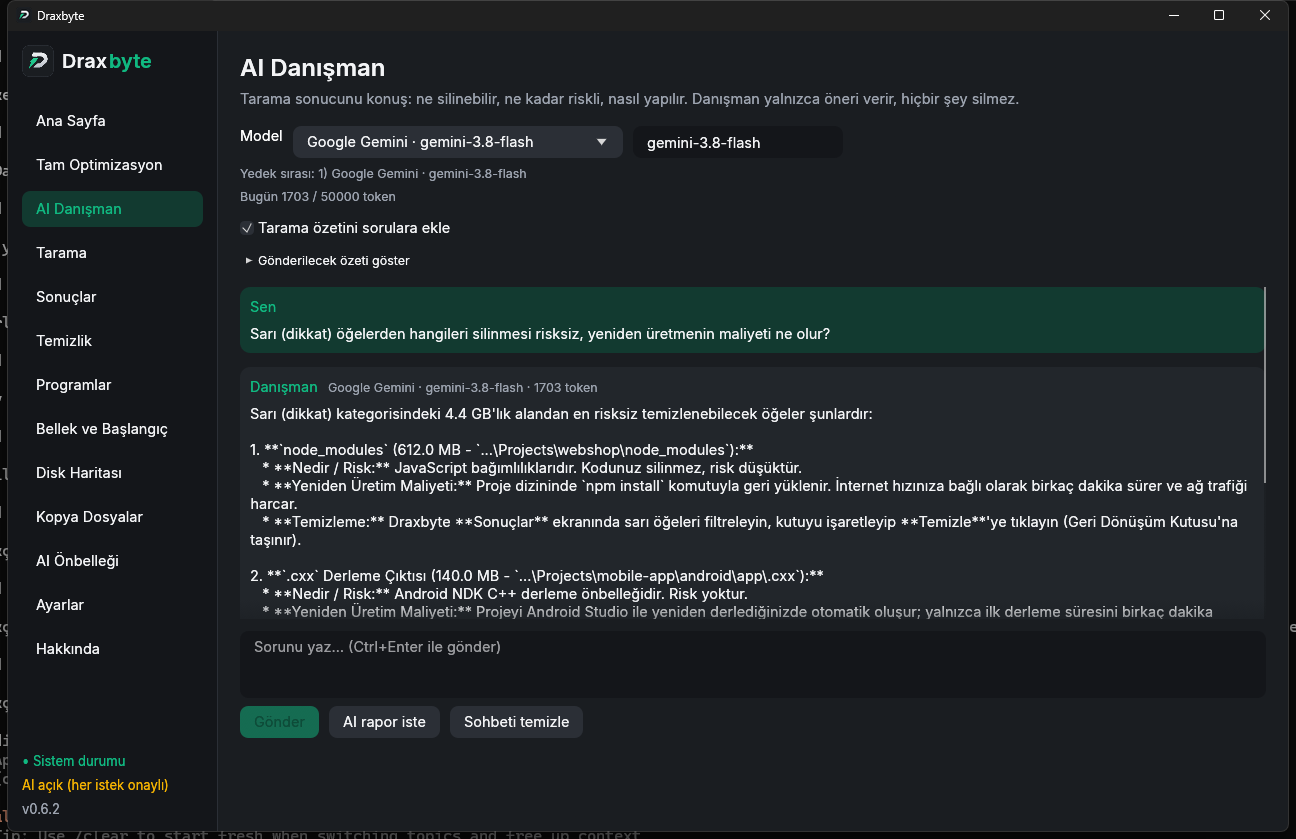
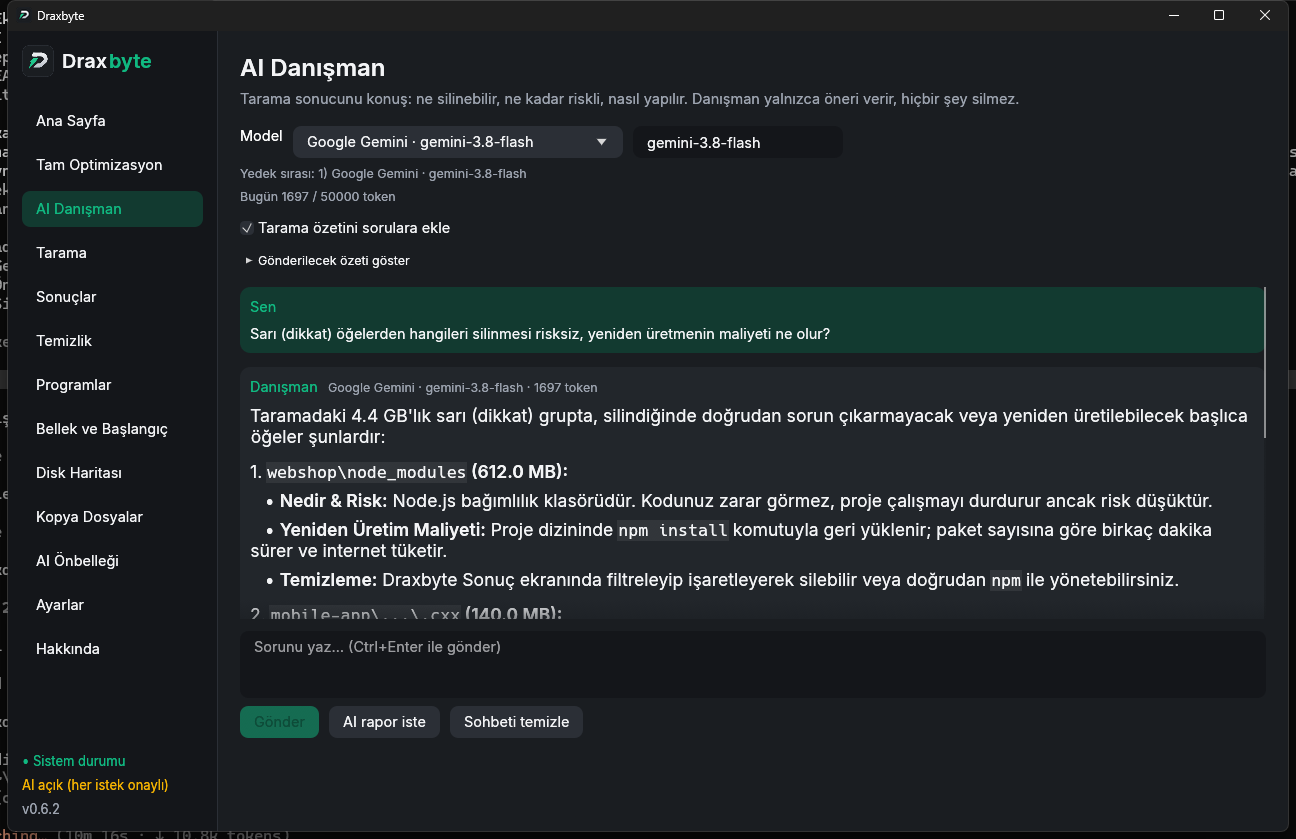
0.6.3: Gemini 3 timeout, Markdown in advisor answers, single-provider environment variable; refreshed advisor screenshots

diff --git a/src/ui/advisor_view.rs b/src/ui/advisor_view.rs
@@ -3,12 +3,121 @@
 //! nothing is sent until the user agrees and presses send.
 
 use super::widgets::{card, heading, primary_button};
-use super::{ACCENT, ACCENT_DIM, DANGER, MUTED, WARN};
+use super::{bold, ACCENT, ACCENT_DIM, DANGER, MUTED, WARN};
 use crate::app::{App, View};
 use draxbyte::ai::advisor::Role;
 use draxbyte::i18n::t;
 use draxbyte::tf;
 use egui::RichText;
+
+/// One styled piece of a line.
+#[derive(Debug, Clone, PartialEq, Eq)]
+struct Run {
+    text: String,
+    bold: bool,
+    italic: bool,
+    code: bool,
+}
+
+#[derive(Debug, Default, PartialEq, Eq)]
+struct MdLine {
+    heading: bool,
+    /// Indent and bullet that start the line.
+    prefix: String,
+    runs: Vec<Run>,
+}
+
+/// One line of an answer: `**bold**`, `*italic*`, `` `code` ``, `#` headings, `-`/`*` bullets.
+/// Models answer in Markdown; shown raw it is full of asterisks. Only the text is styled, nothing is fetched or run.
+fn md_parse(line: &str) -> MdLine {
+    let indent = line.len() - line.trim_start().len();
+    let mut rest = line.trim_start();
+    let mut out = MdLine::default();
+    if rest.starts_with('#') {
+        let t = rest.trim_start_matches('#');
+        if t.starts_with(' ') {
+            out.heading = true;
+            rest = t.trim_start();
+        }
+    } else if let Some(r) = rest.strip_prefix("* ").or_else(|| rest.strip_prefix("- ")).or_else(|| rest.strip_prefix("• ")) {
+        out.prefix = format!("{}• ", " ".repeat(indent.min(8)));
+        rest = r;
+    } else if indent > 0 {
+        out.prefix = " ".repeat(indent.min(8));
+    }
+    let (mut b, mut i, mut c) = (false, false, false);
+    let mut cur = String::new();
+    let flush = |runs: &mut Vec<Run>, cur: &mut String, b: bool, i: bool, c: bool| {
+        if !cur.is_empty() {
+            runs.push(Run { text: std::mem::take(cur), bold: b, italic: i, code: c });
+        }
+    };
+    let chars: Vec<char> = rest.chars().collect();
+    let mut k = 0;
+    while k < chars.len() {
+        let ch = chars[k];
+        let next = chars.get(k + 1).copied();
+        if ch == '`' {
+            flush(&mut out.runs, &mut cur, b, i, c);
+            c = !c;
+        } else if c {
+            cur.push(ch);
+        } else if ch == '*' && next == Some('*') {
+            flush(&mut out.runs, &mut cur, b, i, c);
+            b = !b;
+            k += 1;
+        } else if ch == '*' && (i || next.is_some_and(|n| !n.is_whitespace())) {
+            flush(&mut out.runs, &mut cur, b, i, c);
+            i = !i;
+        } else {
+            cur.push(ch);
+        }
+        k += 1;
+    }
+    flush(&mut out.runs, &mut cur, b, i, c);
+    out
+}
+
+fn markdown_job(line: &str, width: f32, ui: &egui::Ui) -> egui::text::LayoutJob {
+    use egui::{text::LayoutJob, Color32, FontId, TextFormat, TextStyle};
+    let size = ui.text_style_height(&TextStyle::Body);
+    let color = ui.visuals().text_color();
+    let md = md_parse(line);
+    let head = if md.heading { size + 2.0 } else { size };
+    let mut job = LayoutJob::default();
+    job.wrap.max_width = width;
+    if !md.prefix.is_empty() {
+        job.append(&md.prefix, 0.0, TextFormat { font_id: FontId::proportional(size), color, ..Default::default() });
+    }
+    for r in &md.runs {
+        let font = if r.code {
+            FontId::monospace(size - 1.0)
+        } else if r.bold || md.heading {
+            bold(head)
+        } else {
+            FontId::proportional(size)
+        };
+        let mut f = TextFormat { font_id: font, color, italics: r.italic && !r.code, ..Default::default() };
+        if r.code {
+            f.background = Color32::from_white_alpha(18);
+        }
+        job.append(&r.text, 0.0, f);
+    }
+    job
+}
+
+/// An answer, line by line (see `markdown_job`).
+fn markdown(ui: &mut egui::Ui, text: &str) {
+    let width = ui.available_width();
+    for line in text.lines() {
+        if line.trim().is_empty() {
+            ui.add_space(6.0);
+        } else {
+            let job = markdown_job(line, width, ui);
+            ui.add(egui::Label::new(job).selectable(true));
+        }
+    }
+}
 
 fn bubble(ui: &mut egui::Ui, fill: egui::Color32, add: impl FnOnce(&mut egui::Ui)) {
     egui::Frame::new().fill(fill).corner_radius(10).inner_margin(egui::Margin::same(10)).show(ui, |ui| {
@@ -189,7 +298,11 @@ pub fn advisor(app: &mut App, ui: &mut egui::Ui) {
                         ui.label(RichText::new(&m.meta).color(MUTED).small());
                     }
                 });
-                ui.add(egui::Label::new(m.text.as_str()).selectable(true));
+                if m.role == Role::Assistant && !m.error {
+                    markdown(ui, &m.text);
+                } else {
+                    ui.add(egui::Label::new(m.text.as_str()).selectable(true));
+                }
                 if m.role == Role::Assistant && !m.error && ui.small_button(t("Kopyala", "Copy")).clicked() {
                     ui.ctx().copy_text(m.text.clone());
                 }
@@ -226,4 +339,43 @@ pub fn advisor(app: &mut App, ui: &mut egui::Ui) {
             app.adv.msgs.clear();
         }
     });
+}
+
+#[cfg(test)]
+mod tests {
+    use super::*;
+
+    fn plain(l: &MdLine) -> String {
+        l.runs.iter().map(|r| r.text.as_str()).collect()
+    }
+
+    #[test]
+    fn bold_italic_and_code_lose_their_markers() {
+        let l = md_parse("1. **`node_modules` (612 MB):** costs *a few minutes* and `npm install`");
+        assert_eq!(plain(&l), "1. node_modules (612 MB): costs a few minutes and npm install");
+        assert!(l.runs.iter().any(|r| r.bold && r.code && r.text == "node_modules"), "{:?}", l.runs);
+        assert!(l.runs.iter().any(|r| r.italic && r.text == "a few minutes"));
+        assert!(l.runs.iter().any(|r| r.code && !r.bold && r.text == "npm install"));
+    }
+
+    #[test]
+    fn bullets_headings_and_indent() {
+        let b = md_parse("   * **Risk:** low");
+        assert_eq!(b.prefix, "   • ");
+        assert_eq!(plain(&b), "Risk: low");
+        let h = md_parse("## Plan");
+        assert!(h.heading && plain(&h) == "Plan");
+        assert_eq!(md_parse("not # a heading").heading, false);
+    }
+
+    #[test]
+    fn stray_or_literal_asterisks_do_not_swallow_text() {
+        // a multiplication sign and an unmatched marker stay readable; the formatting never leaks into the next line
+        assert_eq!(plain(&md_parse("3 * 4 = 12")), "3 * 4 = 12");
+        let l = md_parse("**never closed");
+        assert_eq!(plain(&l), "never closed");
+        assert_eq!(plain(&md_parse("next line")), "next line");
+        // inside code, asterisks are literal
+        assert_eq!(plain(&md_parse("`a ** b`")), "a ** b");
+    }
 }

diff --git a/src/config.rs b/src/config.rs
@@ -190,13 +190,14 @@ impl Default for CleanupConfig {
 }
 
 impl AiConfig {
-    /// Environment variable wins, then the key stored for the selected provider,
-    /// then the legacy single key.
+    /// Environment variable wins (the provider's own `DRAXBYTE_API_KEY_<PROVIDER>`, then the general
+    /// `DRAXBYTE_API_KEY`), then the key stored for the selected provider, then the legacy single key.
     pub fn resolved_api_key(&self) -> Option<String> {
         let nonempty = |k: &str| Some(k.trim().to_string()).filter(|k| !k.is_empty());
-        std::env::var(API_KEY_ENV)
+        std::env::var(provider_key_env(&self.provider))
             .ok()
             .and_then(|k| nonempty(&k))
+            .or_else(|| std::env::var(API_KEY_ENV).ok().and_then(|k| nonempty(&k)))
             .or_else(|| self.api_keys.get(&self.provider).and_then(|k| nonempty(k)))
             .or_else(|| nonempty(&self.api_key))
     }
@@ -322,6 +323,16 @@ mod tests {
         // the disabled middle entry is skipped, the order of the others is kept
         let t = back.ai.advisor_targets();
         assert_eq!(t.iter().map(|x| x.provider.as_str()).collect::<Vec<_>>(), vec!["groq", "ollama"]);
+    }
+
+    #[test]
+    fn the_single_provider_reads_its_own_environment_variable_first() {
+        let mut c = AiConfig { provider: "zz-single-test".into(), ..AiConfig::default() };
+        c.api_keys.insert("zz-single-test".into(), "stored".into());
+        assert_eq!(c.resolved_api_key().as_deref(), Some("stored"));
+        std::env::set_var("DRAXBYTE_API_KEY_ZZ_SINGLE_TEST", "from-own-env");
+        assert_eq!(c.resolved_api_key().as_deref(), Some("from-own-env"), "DRAXBYTE_API_KEY_<PROVIDER> works without a chain too");
+        std::env::remove_var("DRAXBYTE_API_KEY_ZZ_SINGLE_TEST");
     }
 
     #[test]

diff --git a/src/ai/error.rs b/src/ai/error.rs
@@ -40,8 +40,8 @@ impl fmt::Display for AiError {
                 "pick a model for this provider (use \"Fetch models\" to get the list)".to_string()
             ),
             AiError::NoApiKey => tr!(
-                "API anahtarı yok (DRAXBYTE_API_KEY ortam değişkeni ya da ayarlar)".to_string(),
-                "no API key (DRAXBYTE_API_KEY environment variable or Settings)".to_string()
+                "API anahtarı yok (Ayarlar'dan gir ya da DRAXBYTE_API_KEY_<SAĞLAYICI> / DRAXBYTE_API_KEY ortam değişkenini ayarla)".to_string(),
+                "no API key (enter it in Settings or set the DRAXBYTE_API_KEY_<PROVIDER> / DRAXBYTE_API_KEY environment variable)".to_string()
             ),
             AiError::LimitReached { used, limit } => tr!(
                 format!("günlük token limiti doldu ({used}/{limit}); AI bugün devre dışı"),

diff --git a/CHANGELOG.md b/CHANGELOG.md
@@ -1,7 +1,11 @@
 # Changelog
 
-## Unreleased
+## 0.6.3 — 2026-10-19
 - Fix: **Google Gemini 3.x timed out.** Gemini thinks for minutes by default (a one-word answer took 125 s in a real test, 5 s with thinking off), longer than the 60 s limit, so every question failed over to the next provider. Gemini requests now turn thinking off (`reasoning_effort: none`; a model that refuses it is asked again without), the chat waits up to 120 s (other requests 60 s instead of 30 s), and a timeout is reported as a timeout
+- Fix: **AI Advisor answers show their Markdown** (bold, italic, `code`, bullets, headings) instead of raw asterisks
+- Fix: with a single provider (no chain) the provider's own `DRAXBYTE_API_KEY_<PROVIDER>` environment variable now works too, as it already did in a chain; the "no API key" message names both variables
+
+Türkçe özet: Google Gemini 3.x zaman aşımı düzeltildi (düşünme kapalı, sohbet 120 sn), AI Danışman cevapları Markdown olarak biçimli, tek sağlayıcıda `DRAXBYTE_API_KEY_<SAĞLAYICI>` ortam değişkeni de çalışıyor.
 
 ## 0.6.2 — 2026-10-19
 - New: **AI Advisor chat — pick the model on the screen.** The Model list shows every provider of the chain with its models (↻ fetches a provider's list, or type a name); picking a model switches to its provider at once, the others stay behind it as backups. The choice lasts for the session. The answer cache now also depends on provider, address and model
